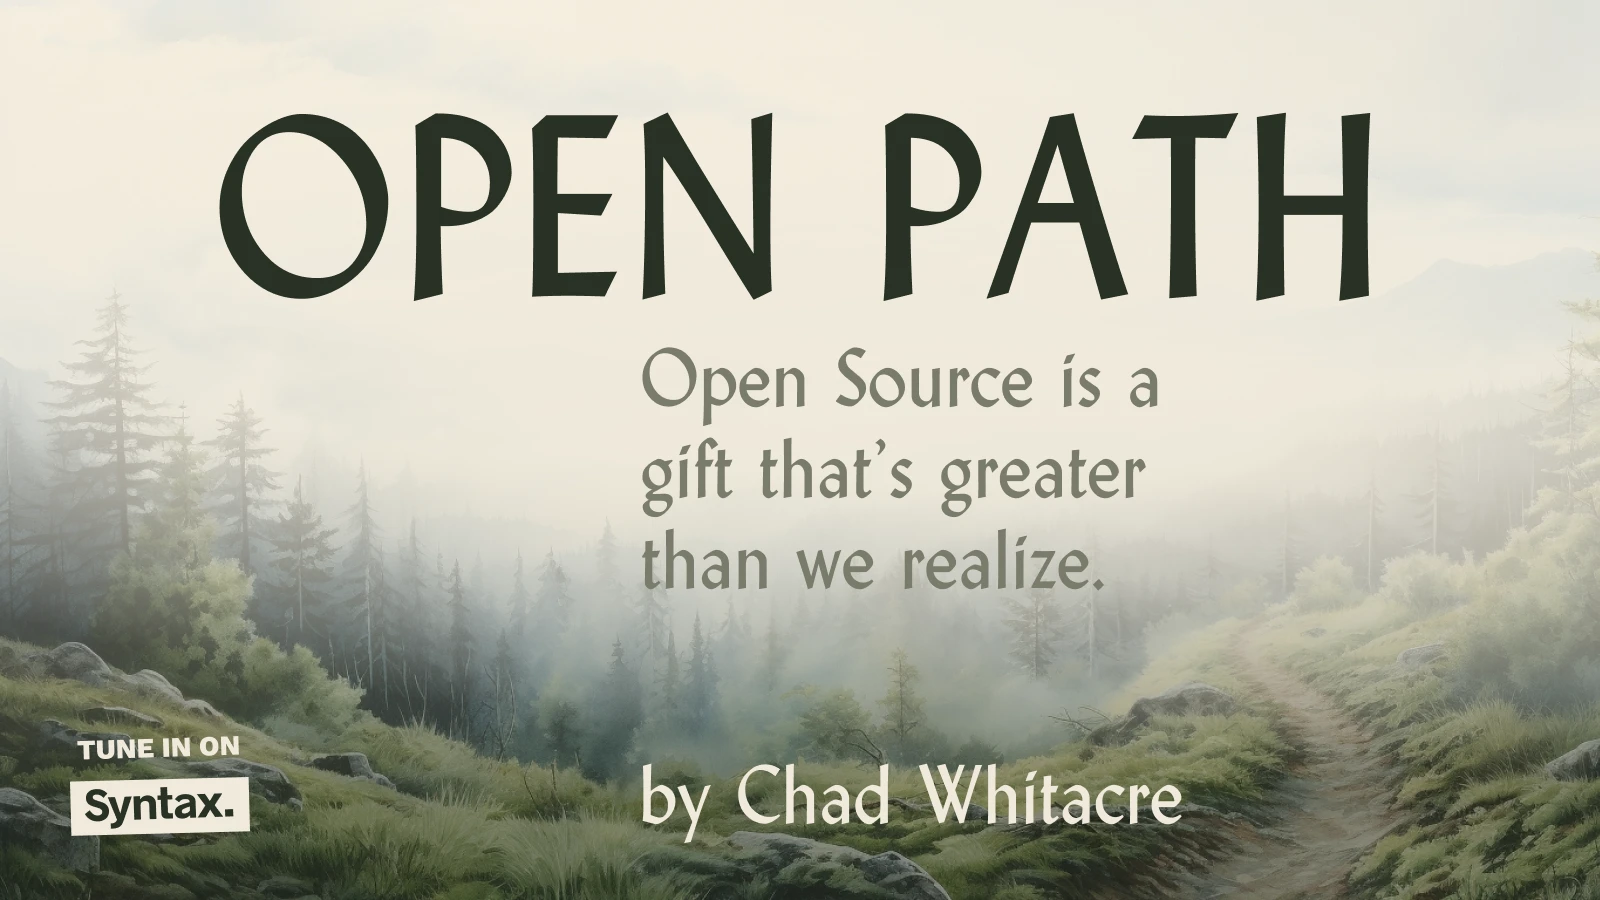
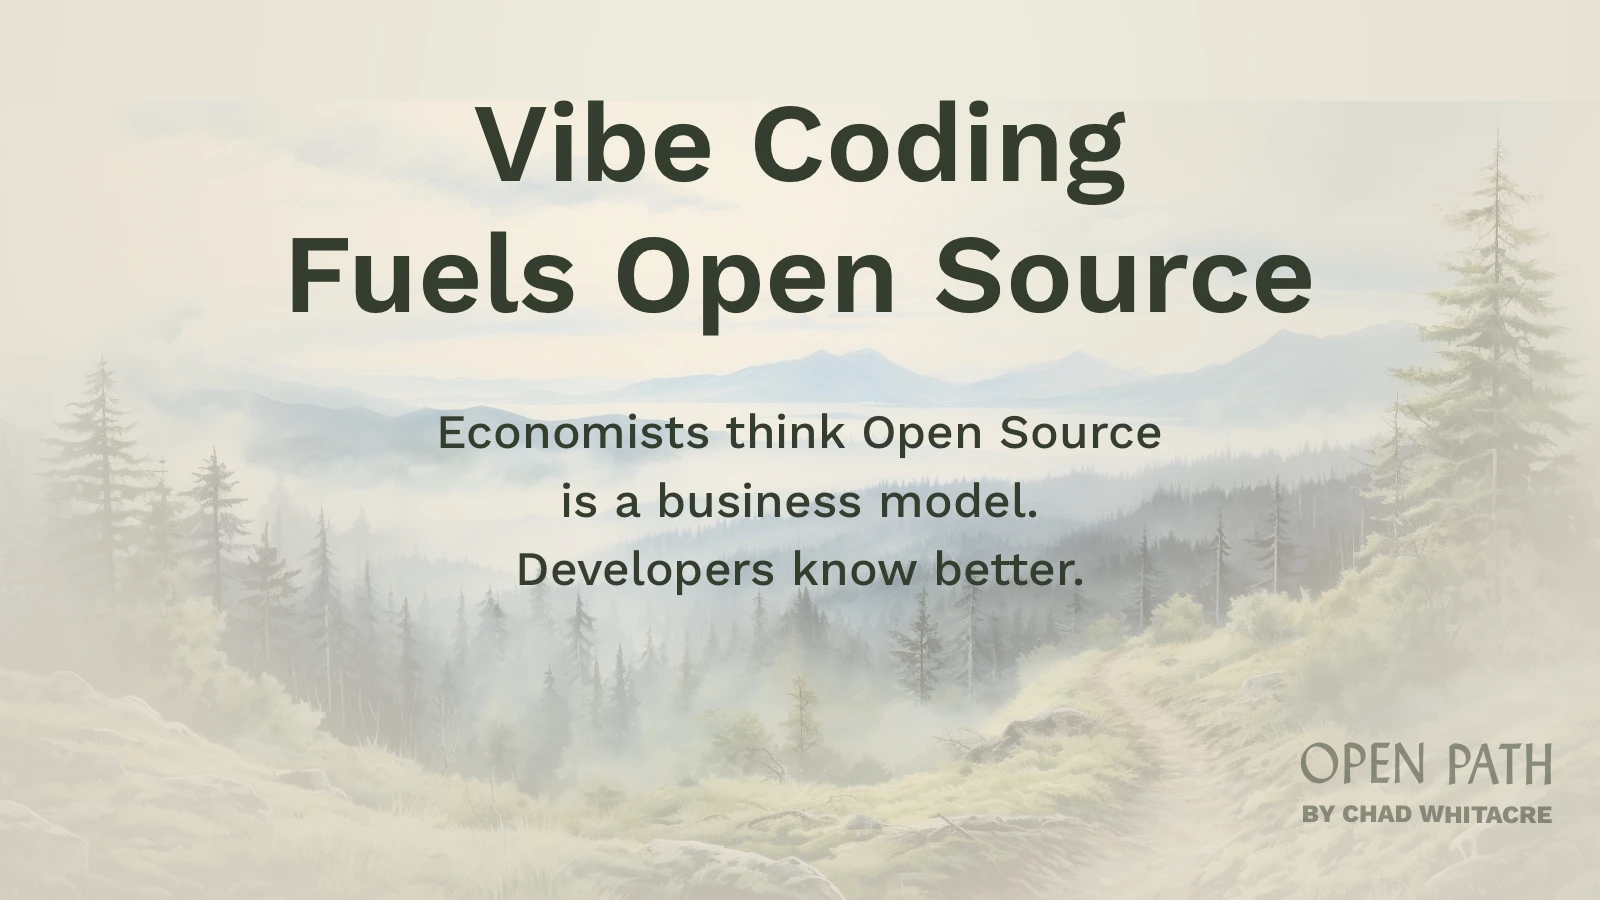
Back on track

diff --git a/2026/vibe-coding-fuels-open-source/index.md b/2026/vibe-coding-fuels-open-source/index.md
@@ -1,9 +1,8 @@
 ---
 title: Vibe Coding Fuels Open Source
-excerpt: Foo.
+excerpt: Economists think Open Source is a business model. Developers know better.
 noindex: true
 ---
-{% include img.html src="social.webp" caption="" url="" %}
 
 Some economists published a paper last month titled, "[Vibe Coding Kills Open
 Source](https://arxiv.org/abs/2601.15494)". They hypothesized that, because
@@ -101,7 +100,7 @@ otherwise. Here are a couple
 [examples](https://github.com/npmx-dev/npmx.dev/pull/113) from a friend of
 mine). [Armin Ronacher](https://lucumr.pocoo.org/2025/12/22/a-year-of-vibes/),
 [Mitchell Hashimoto](https://mitchellh.com/writing/my-ai-adoption-journey),
-[Salvatore Sanfilipo](https://antirez.com/news/158), [Guido van
+[Salvatore Sanfilipo](https://antirez.com/news/158), [Evan You](https://x.com/youyuxi/status/2026647622057079165), [Guido van
 Rossum](https://x.com/gvanrossum/status/2026116763470217352), [Linus
 Torvalds](https://github.com/torvalds/AudioNoise/blob/3a6b51032da587e5d2e269515f3dc21c96da15c4/README.md#L37C1-L38C14),
 and other front-runners have embraced it. In fact, Tailwind founder [Adam
